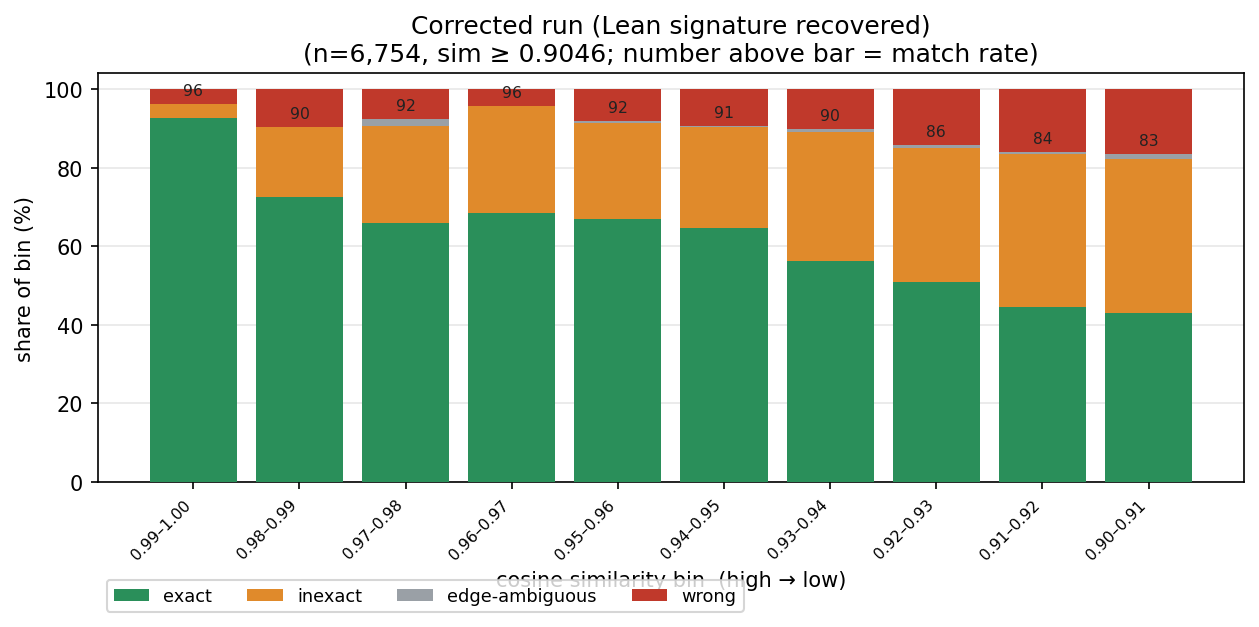
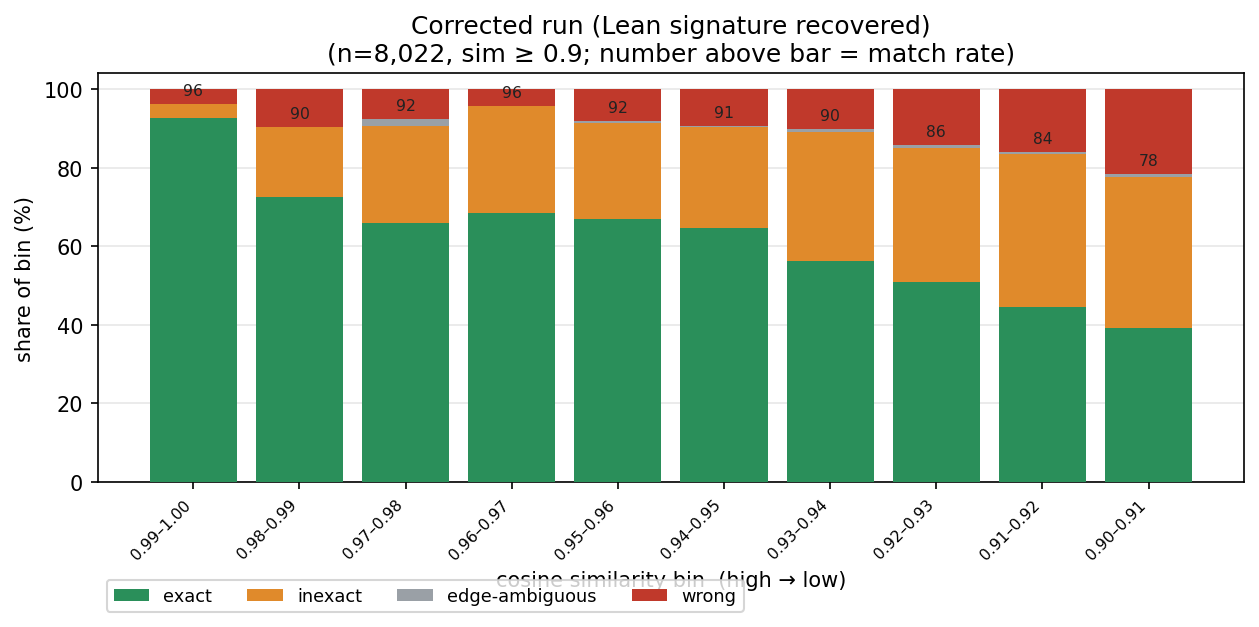
matching: refresh figures for complete 8,022 >=0.90 tier
Full tier now judged with corrected Lean bodies (cutoff 0.900):
6,790 matches / 8,022 (84.6%); exact 3,952, inexact 2,790, wrong 1,232.
Funnel updated to 6,790 confirmed; verdict bars now span full tier (cutoff 0.90).

Changed region(s): [[0.2478, 0.0606, 0.8364, 0.1212], [0.8674, 0.2121, 0.9603, 0.303], [0.8674, 0.4848, 0.9603, 0.5455]]

diff --git a/experiments/nl_fl_matching/salient_discovery/plot_funnel.py b/experiments/nl_fl_matching/salient_discovery/plot_funnel.py
@@ -15,7 +15,7 @@ STAGES = [
     ("ANN sweep", 385_657, "one nearest-neighbor query per formal node"),
     ("Candidate found", 206_326, "rank-1 informal neighbor exists (53.5%)"),
     ("Strong candidates", 8_022, "cosine ≥ 0.90"),
-    ("Confirmed matches", 5_860, "Opus-judged genuine restatements (87%)"),
+    ("Confirmed matches", 6_790, "Opus-judged genuine restatements (85%)"),
 ]
 COLORS = ["#9aa0a6", "#7aa6c2", "#5b8fb0", "#3a6ea5", "#2a8f5a"]
 
@@ -45,7 +45,7 @@ for yi, (label, count, note), lg, col in zip(y, STAGES, logs, COLORS):
 
 ax.set_xlim(0, 1); ax.set_ylim(-0.6, len(STAGES) - 0.4)
 ax.axis("off")
-ax.set_title("From 4.56 trillion possible pairs to 5,860 confirmed edges",
+ax.set_title("From 4.56 trillion possible pairs to 6,790 confirmed edges",
              fontsize=13, fontweight="bold", pad=10)
 fig.text(0.98, 0.02, "bar length ∝ log₁₀(count)", ha="right", fontsize=8, color="gray")
 fig.tight_layout(rect=[0, 0.03, 1, 1])

diff --git a/experiments/nl_fl_matching/salient_discovery/plot_verdict_rates.py b/experiments/nl_fl_matching/salient_discovery/plot_verdict_rates.py
@@ -11,7 +11,7 @@ matplotlib.use("Agg")
 import matplotlib.pyplot as plt
 
 HERE = __file__.rsplit("/", 1)[0]
-CUTOFF = 0.9046  # the lowest sim reached in the corrected run; clip both to this
+CUTOFF = 0.90  # the lowest sim reached in the corrected run; clip both to this
 BW = 0.01
 
 RUNS = [

diff --git a/experiments/nl_fl_matching/salient_discovery/plot_verdict_bars.py b/experiments/nl_fl_matching/salient_discovery/plot_verdict_bars.py
@@ -12,7 +12,7 @@ matplotlib.use("Agg")
 import matplotlib.pyplot as plt
 
 HERE = __file__.rsplit("/", 1)[0]
-CUTOFF = 0.9046
+CUTOFF = 0.90
 BW = 0.01
 RUNS = [
     ("consensus_ge90_v2_all.jsonl", "OG run (slogan-only pilot)", "verdict_bars_og.png"),
